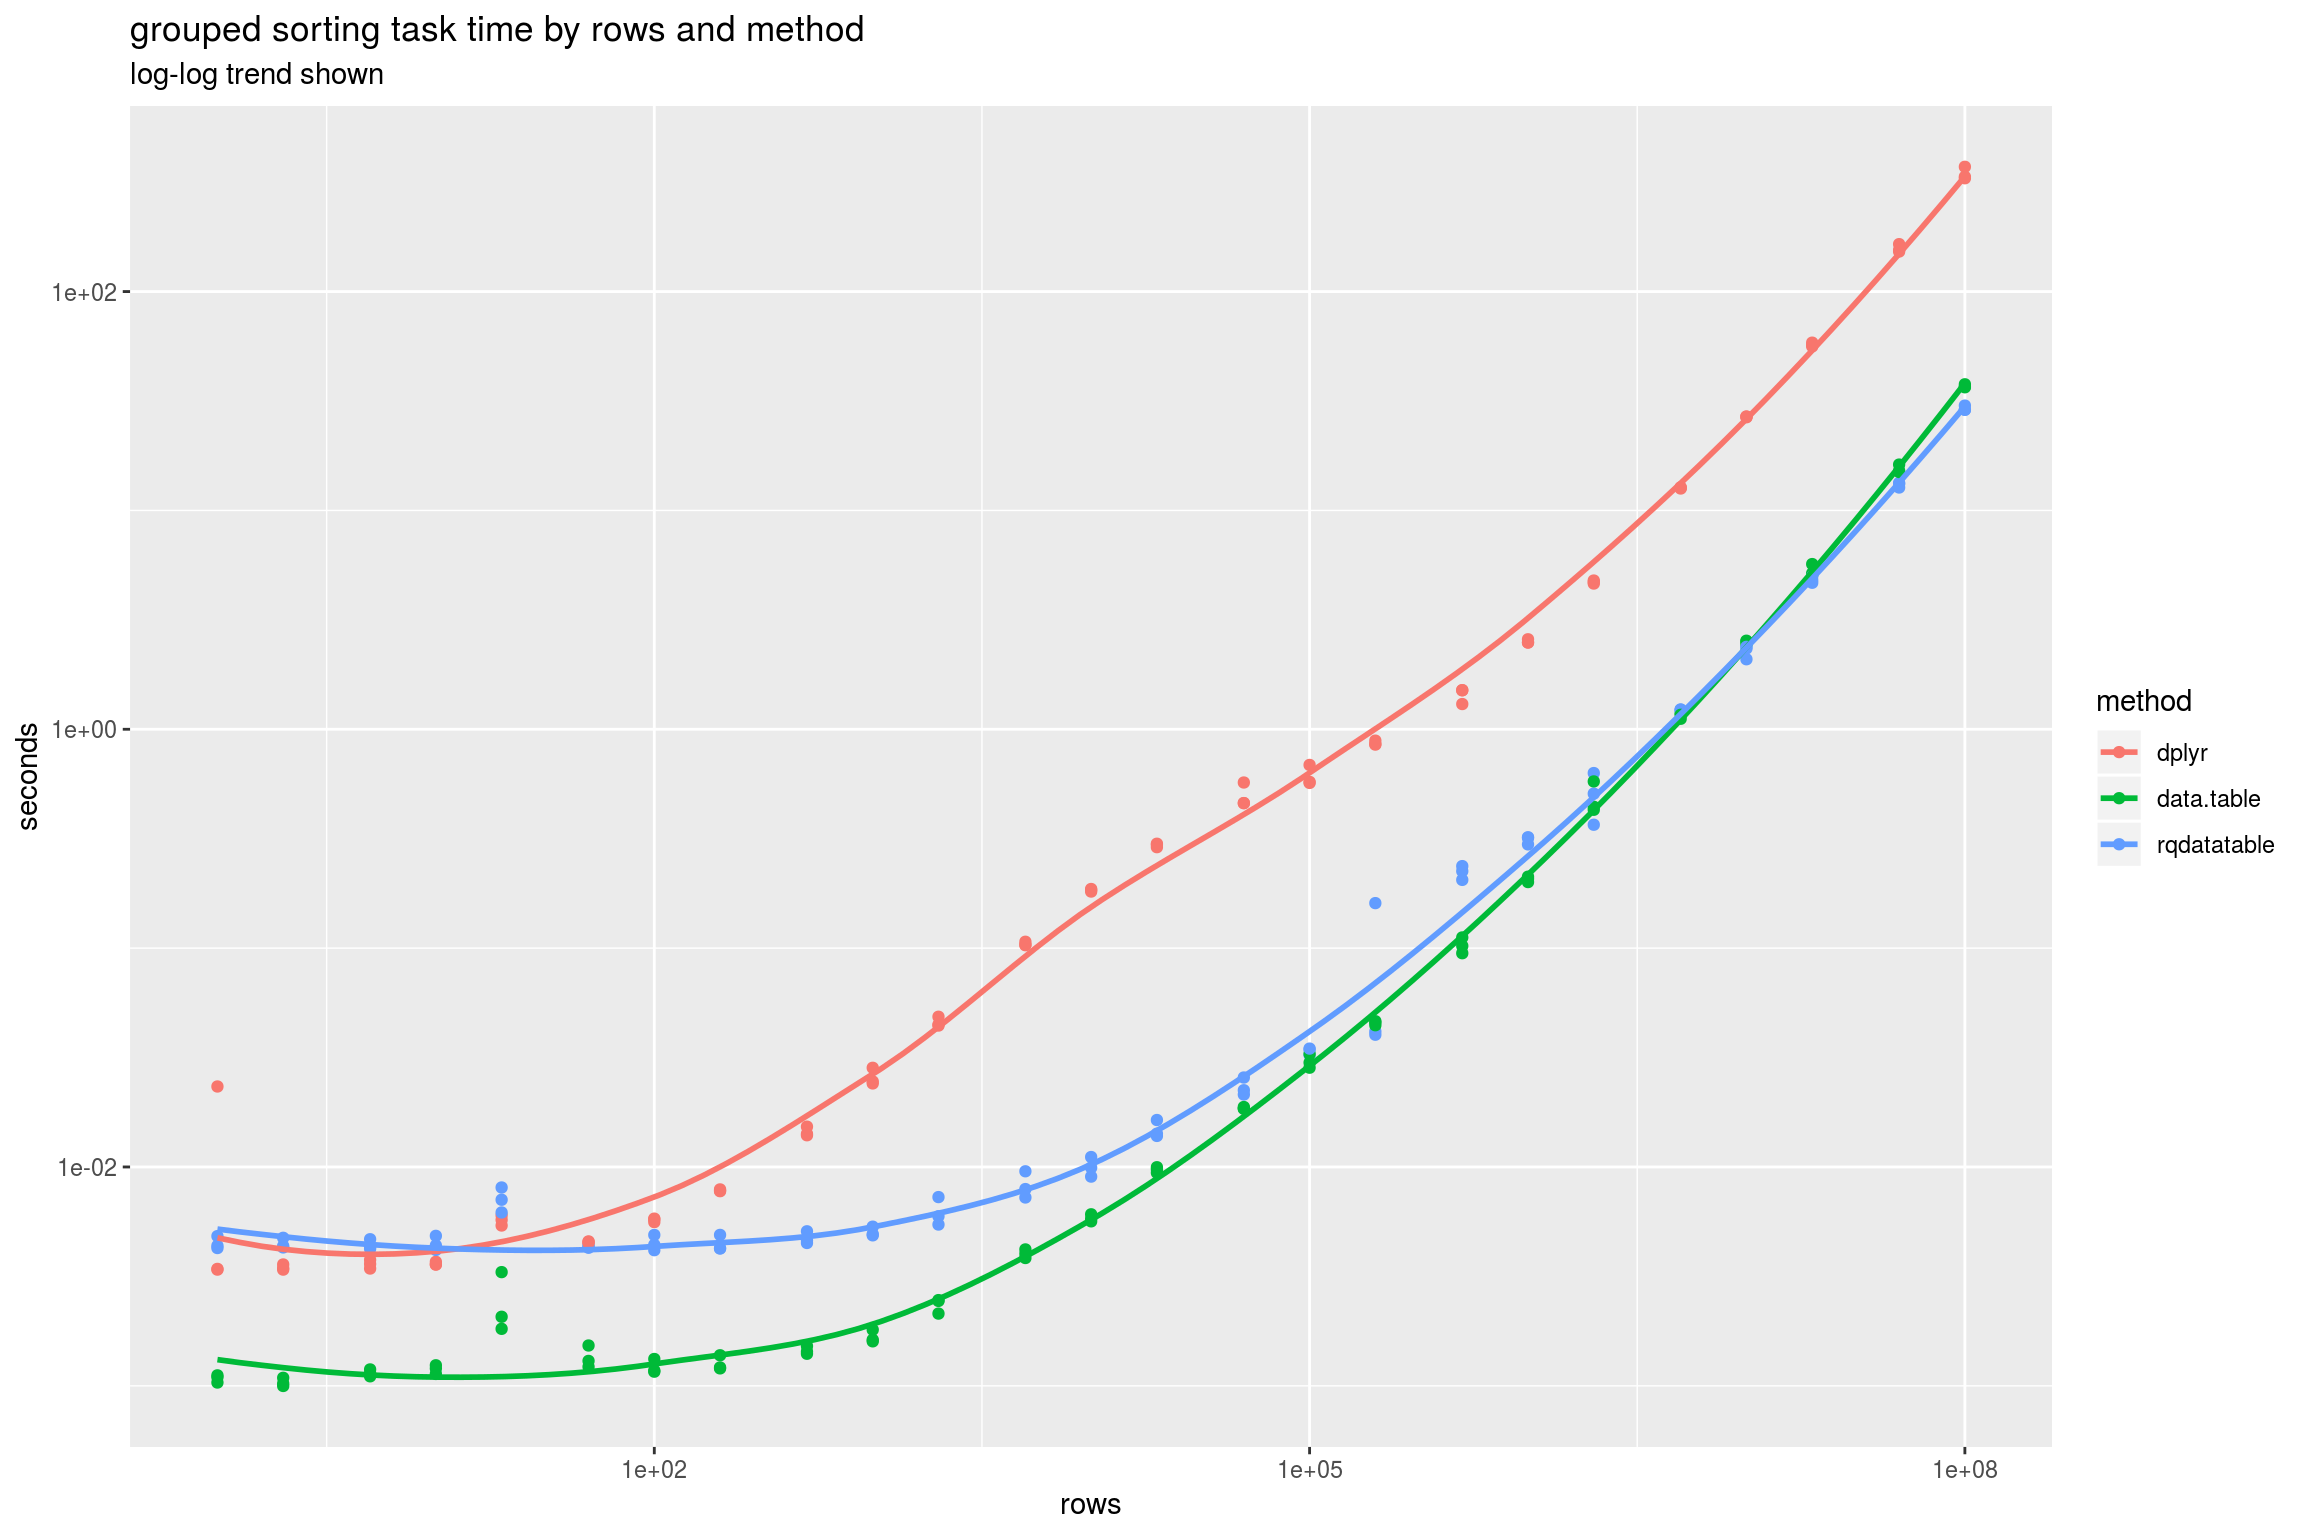
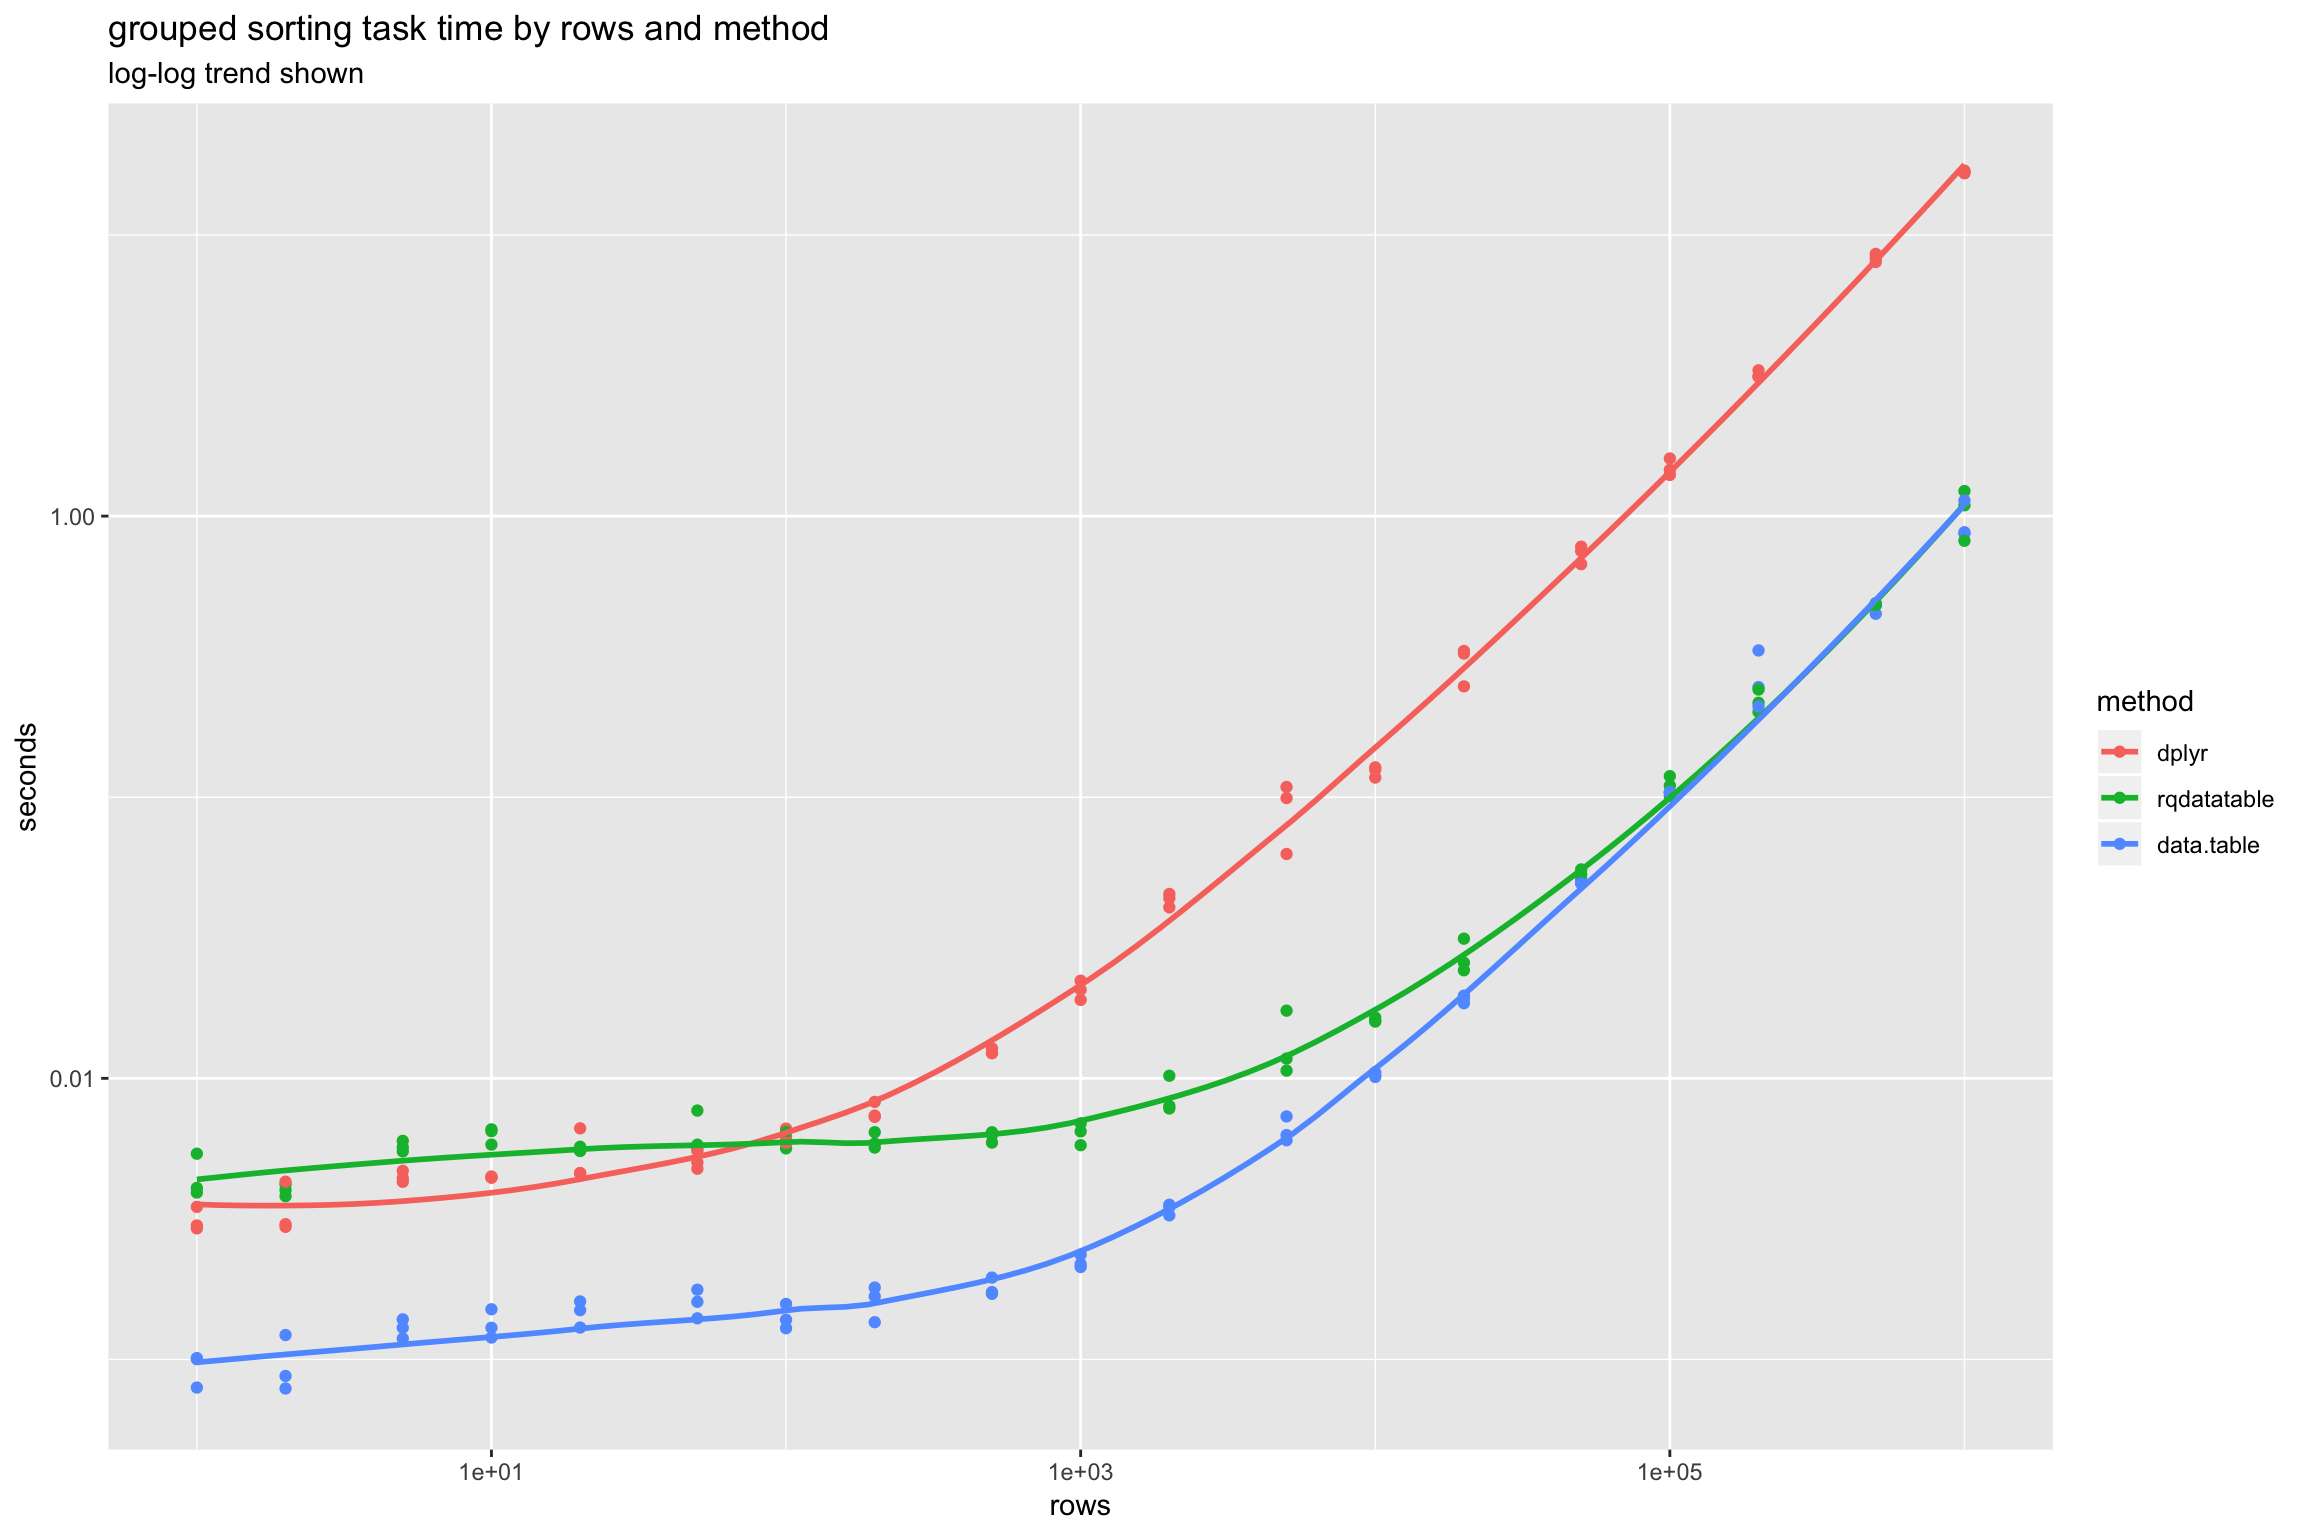
fix some issues and re-run

diff --git a/extras/GroupedSorting.md b/extras/GroupedSorting.md
@@ -17,6 +17,8 @@ library("cdata")
 library("dplyr")
 ```
 
+    ## Warning: package 'dplyr' was built under R version 3.5.1
+
     ## 
     ## Attaching package: 'dplyr'
 
@@ -43,26 +45,30 @@ library("data.table")
 set.seed(32523)
 
 mk_data <- function(nrow) {
-  data.frame(col_a = sample(letters, nrow, replace=TRUE),
-             col_b = sample(letters, nrow, replace=TRUE),
-             col_c = sample(letters, nrow, replace=TRUE),
+  alphabet <- paste("sym", seq_len(max(2, floor(nrow^(1/3)))), sep = "_")
+  data.frame(col_a = sample(alphabet, nrow, replace=TRUE),
+             col_b = sample(alphabet, nrow, replace=TRUE),
+             col_c = sample(alphabet, nrow, replace=TRUE),
              col_x = runif(nrow),
              stringsAsFactors = FALSE)
 }
 ```
 
 ``` r
-ops <- mk_td("d", c("col_a", "col_b", "col_c", "col_x")) %.>%
-  orderby(., cols = c("col_a", "col_b", "col_c", "col_x"))
-
-# from help(microbenchmark)
+# adapted from help(microbenchmark)
 my_check <- function(values) {
-  all(sapply(values[-1], function(x) identical(values[[1]], x)))
+  values <- lapply(values,
+                   function(vi) {
+                     vi <- as.data.frame(vi)
+                     rownames(vi) <- NULL
+                     vi
+                   })
+  isTRUE(all(sapply(values[-1], function(x) identical(values[[1]], x))))
 }
 ```
 
 ``` r
-pow <- 8
+pow <- 6
 rds_name <- "GroupedSorting_runs.RDS"
 if(!file.exists(rds_name)) {
   szs <- expand.grid(a = c(1,2,5), b = 10^{0:pow}) 
@@ -78,8 +84,7 @@ if(!file.exists(rds_name)) {
             as.data.table(.) %.>% 
             setorder(., col_x) %.>%
             .[, running := cumsum(col_x), by=list(col_a, col_b, col_c)] %.>%
-            setorder(., col_a, col_b, col_c, col_x) %.>%
-            setDF(.)[] 
+            setorder(., col_a, col_b, col_c, col_x)
         },
         rqdatatable = { 
           d %.>%
@@ -87,8 +92,7 @@ if(!file.exists(rds_name)) {
                        running = cumsum(col_x),
                        partitionby = c("col_a", "col_b", "col_c"),
                        orderby = "col_x") %.>%
-            orderby(., c("col_a", "col_b", "col_c", "col_x")) %.>%
-            setDF(.)[]
+            orderby(., c("col_a", "col_b", "col_c", "col_x"))
         },
         dplyr = {
           d %>% 
@@ -96,7 +100,6 @@ if(!file.exists(rds_name)) {
             arrange(col_x) %>% 
             mutate(running = cumsum(col_x)) %>% 
             arrange(col_a, col_b, col_c, col_x)
-            as.data.frame(.)
         },
         times = 3L,
         check = my_check)
@@ -145,33 +148,27 @@ means <- timings %.>%
 knitr::kable(means)
 ```
 
-|   rows|  data.table|        dplyr|  rqdatatable|      ratio|  ratio\_by\_log\_rows|
-|------:|-----------:|------------:|------------:|----------:|---------------------:|
-|  1e+00|   0.0010821|    0.0100476|    0.0044867|   9.285011|                   Inf|
-|  2e+00|   0.0010370|    0.0034783|    0.0044634|   3.354321|             4.8392628|
-|  5e+00|   0.0011451|    0.0036018|    0.0044072|   3.145295|             1.9542816|
-|  1e+01|   0.0011916|    0.0036191|    0.0044678|   3.037183|             1.3190318|
-|  2e+01|   0.0023994|    0.0057146|    0.0071134|   2.381617|             0.7950032|
-|  5e+01|   0.0013500|    0.0045362|    0.0043257|   3.360117|             0.8589206|
-|  1e+02|   0.0012206|    0.0057225|    0.0044897|   4.688218|             1.0180335|
-|  2e+02|   0.0012647|    0.0078160|    0.0044632|   6.180128|             1.1664322|
-|  5e+02|   0.0014518|    0.0144703|    0.0047338|   9.967165|             1.6038284|
-|  1e+03|   0.0016752|    0.0256874|    0.0050469|  15.333847|             2.2198017|
-|  2e+03|   0.0023489|    0.0458627|    0.0062330|  19.525066|             2.5687826|
-|  5e+03|   0.0040170|    0.1045992|    0.0082466|  26.038840|             3.0572090|
-|  1e+04|   0.0058399|    0.1839662|    0.0100233|  31.501765|             3.4202606|
-|  2e+04|   0.0097084|    0.2952436|    0.0148164|  30.411092|             3.0707457|
-|  5e+04|   0.0185871|    0.4969418|    0.0231661|  26.735865|             2.4710178|
-|  1e+05|   0.0304051|    0.6102706|    0.0338783|  20.071354|             1.7433756|
-|  2e+05|   0.0454999|    0.8651301|    0.0808125|  19.013908|             1.5577417|
-|  5e+05|   0.1030013|    1.4400972|    0.2222625|  13.981353|             1.0654600|
-|  1e+06|   0.2066127|    2.5203579|    0.3126621|  12.198464|             0.8829542|
-|  2e+06|   0.4829743|    4.7065370|    0.5017289|   9.744901|             0.6716611|
-|  5e+06|   1.1542890|   12.6808568|    1.2257031|  10.985859|             0.7122137|
-|  1e+07|   2.4988707|   26.7692815|    2.2693765|  10.712552|             0.6646289|
-|  2e+07|   5.3056336|   57.2001299|    4.8211123|  10.781018|             0.6412981|
-|  5e+07|  15.4460678|  157.2902965|   13.0957611|  10.183193|             0.5744281|
-|  1e+08|  37.0182569|  345.2271557|   29.2712506|   9.325862|             0.5062713|
+|   rows|  data.table|       dplyr|  rqdatatable|      ratio|  ratio\_by\_log\_rows|
+|------:|-----------:|-----------:|------------:|----------:|---------------------:|
+|  1e+00|   0.0009357|   0.0031369|    0.0044632|   3.352339|                   Inf|
+|  2e+00|   0.0009609|   0.0034266|    0.0040004|   3.565853|             5.1444385|
+|  5e+00|   0.0012906|   0.0044638|    0.0057265|   3.458624|             2.1489641|
+|  1e+01|   0.0013335|   0.0044497|    0.0062939|   3.336738|             1.4491269|
+|  2e+01|   0.0014679|   0.0052786|    0.0055861|   3.595991|             1.2003714|
+|  5e+01|   0.0015914|   0.0051036|    0.0063619|   3.206983|             0.8197762|
+|  1e+02|   0.0014169|   0.0062252|    0.0060188|   4.393479|             0.9540319|
+|  2e+02|   0.0016120|   0.0076368|    0.0059865|   4.737395|             0.8941320|
+|  5e+02|   0.0018010|   0.0124613|    0.0062078|   6.919066|             1.1133552|
+|  1e+03|   0.0022258|   0.0206443|    0.0063897|   9.274799|             1.3426646|
+|  2e+03|   0.0034286|   0.0431910|    0.0086674|  12.597145|             1.6573223|
+|  5e+03|   0.0065410|   0.0902933|    0.0132713|  13.804191|             1.6207441|
+|  1e+04|   0.0102951|   0.1234932|    0.0161347|  11.995322|             1.3023755|
+|  2e+04|   0.0191508|   0.3012782|    0.0271349|  15.731874|             1.5885186|
+|  5e+04|   0.0498521|   0.7347170|    0.0533672|  14.737936|             1.3621292|
+|  1e+05|   0.1039247|   1.4884310|    0.1099531|  14.322210|             1.2440113|
+|  2e+05|   0.2630986|   3.1923535|    0.2198142|  12.133678|             0.9940689|
+|  5e+05|   0.4738891|   8.2792478|    0.4846414|  17.470856|             1.3313803|
+|  1e+06|   0.9598821|  16.7222401|    1.0457160|  17.421139|             1.2609841|
 
 ``` r
 ggplot(data = means, aes(x = rows, y = ratio)) +
